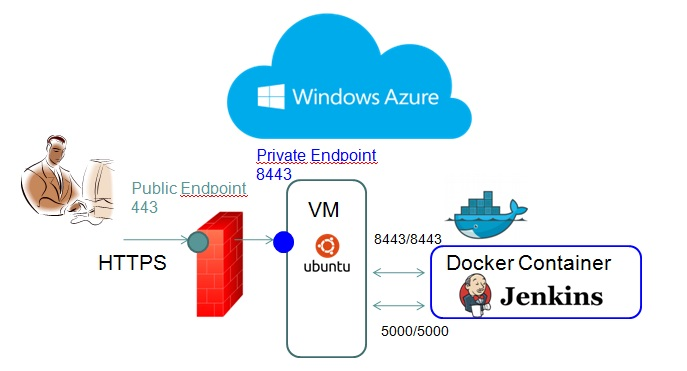
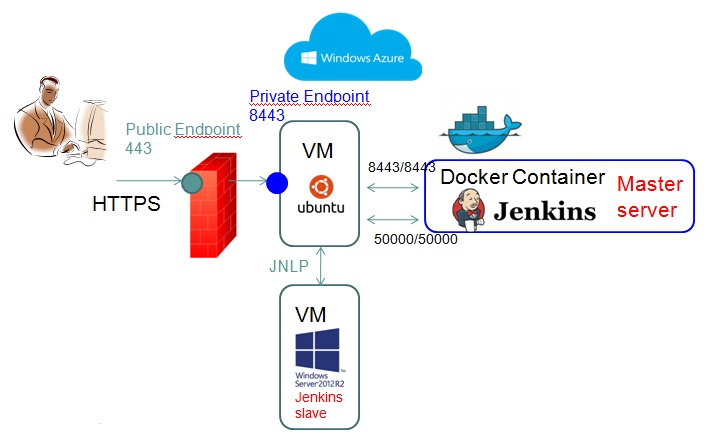
correct docker Jenkins for Slave connections

Changed region(s): [[0.0, 0.0296, 1.0, 1.0], [0.1223, 0.6819, 0.2445, 0.7412]]

diff --git a/dockerJenkins/README.md b/dockerJenkins/README.md
@@ -1,7 +1,10 @@
 # dockerJenkins
 
-Setup of a Docker image of a Jenkins server.
-Port exposed on the Jenkins server via HTTPS is port 8443
+Setup of a Docker image of a Jenkins server. The version of java used is java 7.
+
+Port exposed on the Jenkins server via HTTPS is port 8443.
+The port 50000 on the Azur VM will also need to be opened in order to allow connections from Jenkins slaves.
+
 
 ![Diagram] (/dockerJenkins/images/docker-jenkins.jpg)
 
